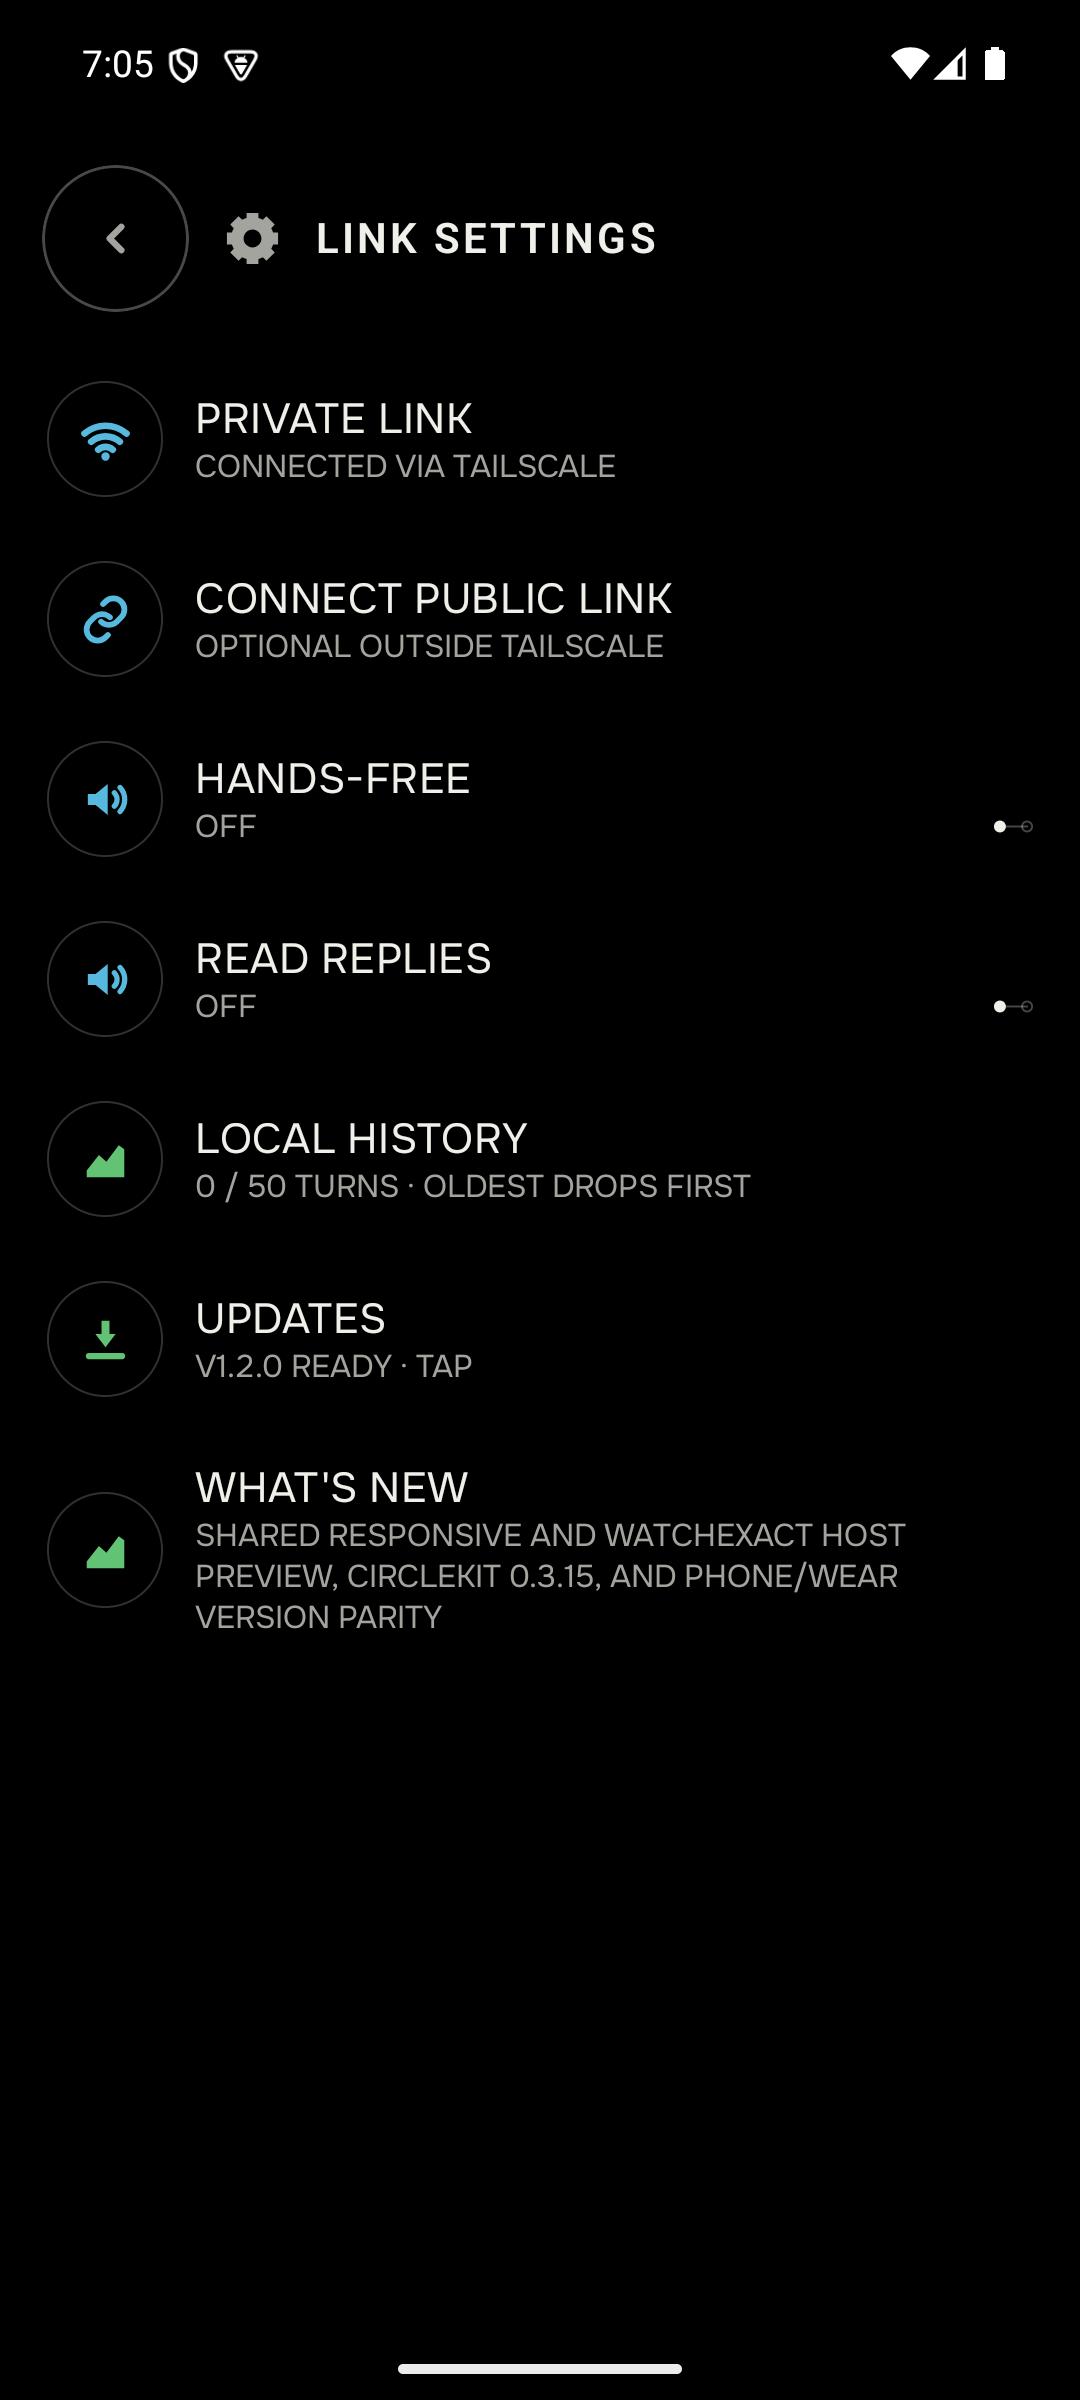
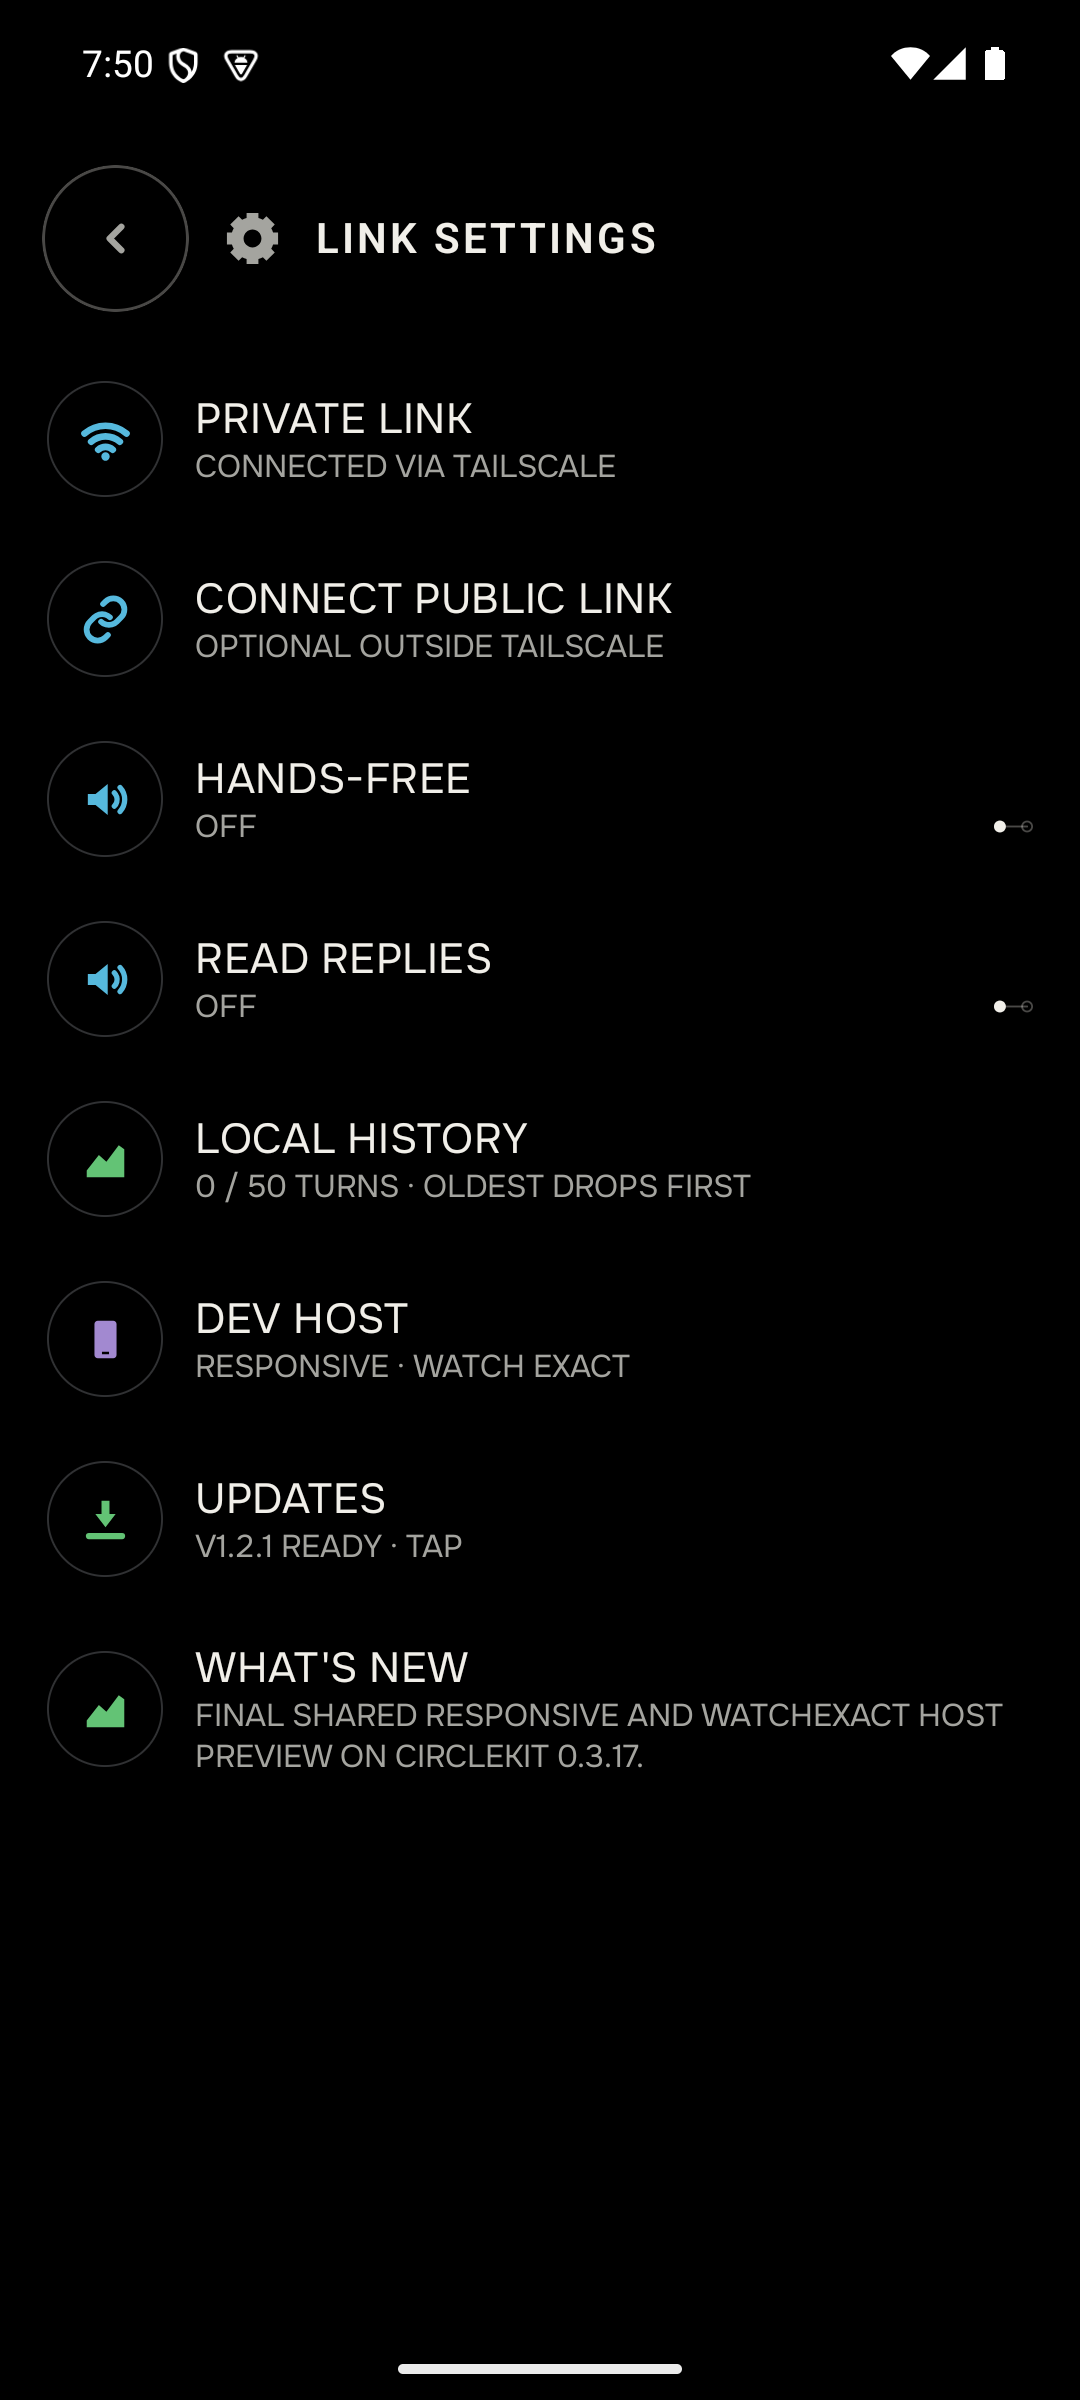
docs(link): attest 1.2.1 updater release

diff --git a/android/audio-inbox/docs/qa/2026-08-02-link-host-preview-release-parity/README.md b/android/audio-inbox/docs/qa/2026-08-02-link-host-preview-release-parity/README.md
@@ -10,7 +10,7 @@ Source candidate: `feat/link-host-preview-version-parity`
 - [x] `LHP-004` Real Wear uses the same Watch presenter and omits the meaningless DEV host selector.
 - [x] `LHP-005` WatchExact persists over process restart, then the shared `AUTO` path restores Responsive and that state persists.
 - [x] `LHP-006` Phone and Wear read one `linkVersionName`; their monotonic channel codes remain independent.
-- [x] `LHP-007` Exact merged release APKs and both signed public updater manifests attest version `1.2.0`.
+- [x] `LHP-007` Exact merged release APKs and both signed public updater manifests attest final version `1.2.1` on CircleKit `0.3.17`.
 
 ## Pixel truth checked before committing
 
@@ -37,6 +37,8 @@ Reviewed evidence:
 - `wear-watch-exact-settings.png`
 - `phone-updater-detected.png`
 - `wear-updater-detected.png`
+- `phone-updater-after.png`
+- `wear-updater-after.png`
 
 ## Named QA seam
 
@@ -45,7 +47,7 @@ Phone was driven through debug-only activity extras (`qa_page`, `qa_host`,
 Wear used `qa_state=active` and `qa_page=settings`. No coordinate taps, mock
 renderer, screenshot substitution, or raw input scripting was used.
 
-The relevant shared CircleKit 0.3.15 unit contracts pin:
+The relevant shared CircleKit 0.3.17 unit contracts pin:
 
 - 0°/180° → portrait bounds → `PHONE_COMPACT`;
 - 90°/270° → landscape bounds → `PHONE_WIDE`;
@@ -65,29 +67,33 @@ both assets, then verify both signed `link.v1d.io` channel manifests.
 - Product PR: [#249](https://github.com/adelost/agentmux/pull/249), merged as
   `5aca7246a20ff376da26b3633eac53844fc84968`; rollback is
   `3d6fbf16fc853fbefe4c4d091aa02c24007c6b50`.
+- Final artifact-pin PR: [#251](https://github.com/adelost/agentmux/pull/251),
+  merged as `2cb3a8ea5e8282d991d2a392da3ad2b4f9b4e9e4`; rollback is
+  `2143b051ccea29bfae5e77f95691f31f07c873f9`.
 - GitHub release:
-  [agentmux-link-v1.2.0](https://github.com/adelost/agentmux/releases/tag/agentmux-link-v1.2.0).
+  [agentmux-link-v1.2.1](https://github.com/adelost/agentmux/releases/tag/agentmux-link-v1.2.1).
 - Phone asset:
-  [Agentmux-Link-Phone-1.2.0.apk](https://github.com/adelost/agentmux/releases/download/agentmux-link-v1.2.0/Agentmux-Link-Phone-1.2.0.apk),
-  package `io.agentmux.audioinbox`, version `1.2.0` (`8`), size `9,776,397`,
[1 lines of base64/hex data omitted]
+  [Agentmux-Link-Phone-1.2.1.apk](https://github.com/adelost/agentmux/releases/download/agentmux-link-v1.2.1/Agentmux-Link-Phone-1.2.1.apk),
+  package `io.agentmux.audioinbox`, version `1.2.1` (`9`), size `9,776,397`,
[1 lines of base64/hex data omitted]
 - Wear asset:
-  [Agentmux-Link-Wear-1.2.0.apk](https://github.com/adelost/agentmux/releases/download/agentmux-link-v1.2.0/Agentmux-Link-Wear-1.2.0.apk),
-  version `1.2.0` (`6`), size `2,427,500`, SHA-256
[1 lines of base64/hex data omitted]
+  [Agentmux-Link-Wear-1.2.1.apk](https://github.com/adelost/agentmux/releases/download/agentmux-link-v1.2.1/Agentmux-Link-Wear-1.2.1.apk),
+  version `1.2.1` (`7`), size `2,427,500`, SHA-256
[1 lines of base64/hex data omitted]
 - Both APKs came from the exact merge SHA and share signer certificate SHA-256
[1 lines of base64/hex data omitted]
 - Public updater manifests:
   [Phone](https://link.v1d.io/releases/agentmux-link/phone/manifest-v1.json) and
   [Wear](https://link.v1d.io/releases/agentmux-link/wear/manifest-v1.json).
   Their public APKs are
-  [phone code 8](https://link.v1d.io/releases/agentmux-link/phone/app-8.apk) and
-  [wear code 6](https://link.v1d.io/releases/agentmux-link/wear/app-6.apk).
+  [phone code 9](https://link.v1d.io/releases/agentmux-link/phone/app-9.apk) and
+  [wear code 7](https://link.v1d.io/releases/agentmux-link/wear/app-7.apk).
   Public bytes, signature, size and checksum matched the GitHub assets.
 
-The updater proof was an in-place signed upgrade without uninstall or clear:
-Phone `1.1.5` (`7`) and Wear `0.1.4` (`5`) both detected
-`V1.2.0 READY · TAP`, installed from their real ReleaseKit feeds, and reported
-`1.2.0` after updater-driven restart. Semantic UiAutomator selected the named
-update row and Android's named `android:id/button1`; no coordinate taps were
-used. The two updater screenshots above were inspected before inclusion.
+The terminal updater proof was an in-place signed upgrade without uninstall or
+clear: Phone `1.2.0` (`8`) and Wear `1.2.0` (`6`) both detected
+`V1.2.1 READY · TAP`, installed through their real ReleaseKit feeds, and showed
+`V1.2.1 · UP TO DATE · TAP` after updater-driven restart. Semantic UiAutomator
+selected the named update row and Android's named `android:id/button1`; no raw
+coordinate taps were used. All four updater screenshots were inspected before
+inclusion.
